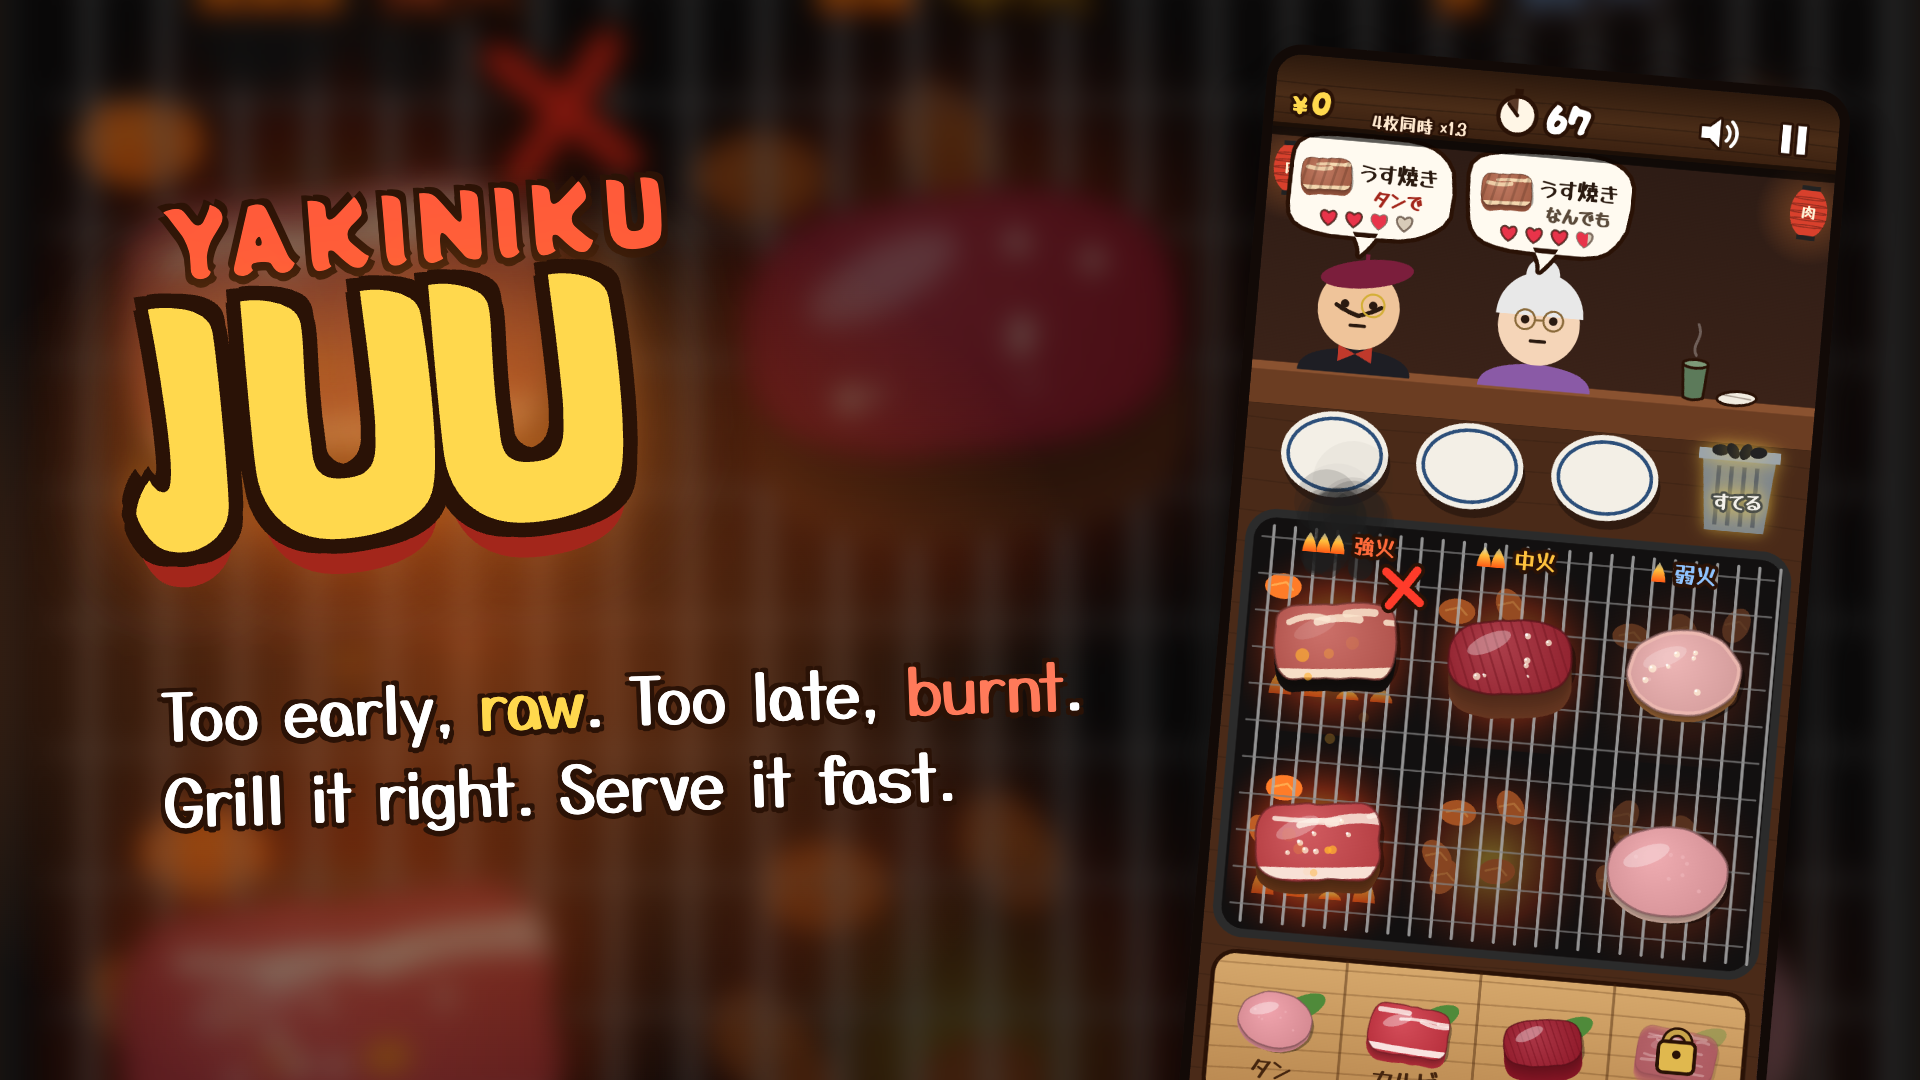
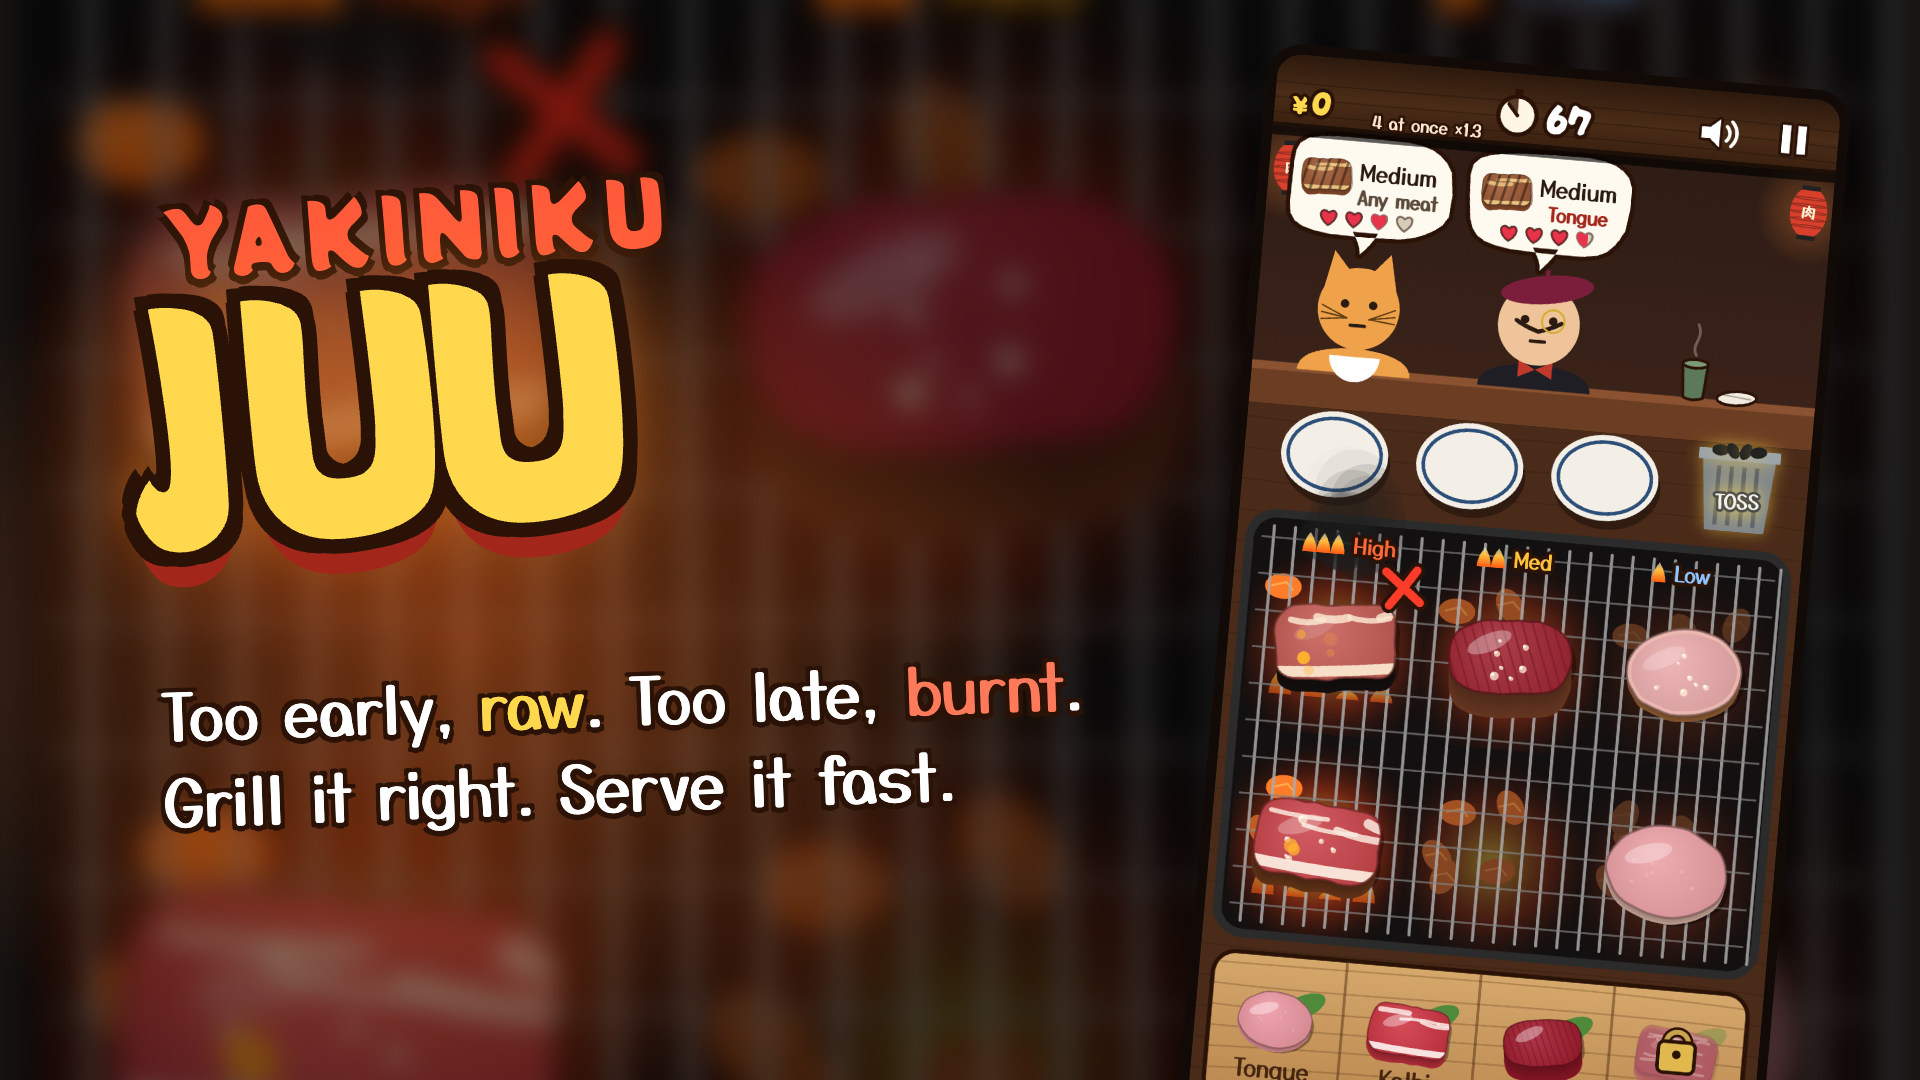
英語版とゲームサイトの準備をまとめる：CrazyGames とのつなぎ（遊ぶ・止める・区切りの広告・よろこび）・英語の表紙の絵・電波なし用に i18n.js と about.html を足す

diff --git a/src/main.js b/src/main.js
@@ -194,20 +194,23 @@
     ['title', 'pause', 'result', 'stages', 'intro', 'levels', 'tools'].forEach((id) => { $(id).hidden = true; });
     YS.unlock();
     if (window.YP) YP.start(g);
+    if (window.YQ) YQ.start();
     if (window.YC) YC.hit(stage ? 'start-s' + stage : 'start-honban');
   }
   function pause(on) {
     if (!g || mode !== 'play' || g.state === 'over') return;
     held = null; ptr = null;
     last = null; // もどったときに、離れていた時間をまとめて足さない
-    if (on) { g.paused = true; resumeT = 0; $('pause').hidden = false; YS.silence(); return; }
+    if (on) { g.paused = true; resumeT = 0; $('pause').hidden = false; YS.silence(); if (window.YQ) YQ.stop(); return; }
     if (!g.paused) return;
+    if (window.YQ) YQ.start();
     $('pause').hidden = true;
     // すぐには動かさない：3・2・1 のあとで再開（遊ぶ前の「ready」なら待たない）
     if (g.state === 'ready') g.paused = false; else resumeT = 1.5;
   }
   function toTitle() {
     if (g && mode === 'play' && window.YP) YP.quit(g, 'title');
+    if (window.YQ) YQ.stop();
     mode = 'title'; g = null;
     ['pause', 'result', 'stages', 'intro', 'levels', 'tools'].forEach((id) => { $(id).hidden = true; });
     $('title').hidden = false;
@@ -300,13 +303,15 @@
     const sb = $('startBtn');
     sb.disabled = true; sb.textContent = jaen('準備中…', '...');
     const ready = document.fonts && document.fonts.load ? document.fonts.load('20px "Potta One"', '焼肉0123') : Promise.resolve();
-    Promise.race([ready.catch(() => {}), new Promise((r) => setTimeout(r, 2500))]).then(() => { sb.disabled = false; sb.textContent = jaen('焼く', 'GRILL'); });
+    Promise.race([ready.catch(() => {}), new Promise((r) => setTimeout(r, 2500))]).then(() => { sb.disabled = false; sb.textContent = jaen('焼く', 'GRILL'); if (window.YQ) YQ.loaded(); });
   })();
   $('startBtn').onclick = () => { if (fromLv() == null && !Object.keys(starsMap()).length) showLevels(); else begin(nextStage()); };
   $('levelsClose').onclick = () => { $('levels').hidden = true; toTitle(); };
   $('lvBtn').onclick = showLevels;
-  $('againBtn').onclick = () => { const a = $('againBtn').dataset.next; if (a) begin(Number(a)); else newRun(stage); };
-  $('rRetry').onclick = () => newRun(stage);
+  // ゲームサイト版：結果からもう一度遊ぶときに、区切りの広告をはさむ（出すかどうかはサイトが決める）
+  const afterAd = (fn) => (window.YQ ? YQ.breakAd(fn) : fn());
+  $('againBtn').onclick = () => afterAd(() => { const a = $('againBtn').dataset.next; if (a) begin(Number(a)); else newRun(stage); });
+  $('rRetry').onclick = () => afterAd(() => newRun(stage));
   $('resumeBtn').onclick = () => pause(false);
   $('retryBtn').onclick = () => newRun(stage);
   $('toTitleBtn').onclick = toTitle;
@@ -316,6 +321,7 @@
 
   function showResult() {
     mode = 'result';
+    if (window.YQ) YQ.stop();
     YS.silence();
     store.set('yaki.plays', store.get('yaki.plays', 0) + 1);
     $('rScore').textContent = g.stage ? jaen('うまく焼けた ' + g.stats.ok + '枚', g.stats.ok + ' done right') : g.score;
@@ -367,7 +373,7 @@
     const n = YG.starsOf(g);
     const sm = starsMap();
     const before = sm[k] || 0;
-    if (n > before) { sm[k] = n; store.set('yaki.stars', sm); }
+    if (n > before) { sm[k] = n; store.set('yaki.stars', sm); if (window.YQ) YQ.happy(); }
     const sb = store.get('yaki.stageBestN', {}) || {};
     const bestBefore = sb[k] || 0;
     const got = g.stats.ok;

diff --git a/sw.js b/sw.js
@@ -1,9 +1,9 @@
 // 電波がなくても遊べるように、一度開いたゲームの中身をとっておく
 // いつもは新しいものを取りに行き（直したらすぐ届く）、つながらないときだけとっておいたものを出す
 const CACHE = 'ju-v1';
-const FILES = ['./', 'index.html', 'manifest.json', 'icon-192.png', 'icon-512.png', 'icon-180.png',
+const FILES = ['./', 'index.html', 'about.html', 'manifest.json', 'icon-192.png', 'icon-512.png', 'icon-180.png',
   'fonts/PottaOne.woff2', 'fonts/YuseiMagic.woff2',
-  'src/i18n.js?v=dev', 'src/sim.js?v=dev', 'src/lines.js?v=dev', 'src/draw.js?v=dev', 'src/sound.js?v=dev', 'src/playtest.js?v=dev', 'src/main.js?v=dev', 'src/count.js?v=dev'];
+  'src/i18n.js?v=dev', 'src/i18n.js?v=dev', 'src/sim.js?v=dev', 'src/lines.js?v=dev', 'src/draw.js?v=dev', 'src/sound.js?v=dev', 'src/playtest.js?v=dev', 'src/main.js?v=dev', 'src/count.js?v=dev'];
 self.addEventListener('install', (e) => { e.waitUntil(caches.open(CACHE).then((c) => c.addAll(FILES)).then(() => self.skipWaiting())); });
 self.addEventListener('activate', (e) => {
   e.waitUntil(caches.keys().then((ks) => Promise.all(ks.filter((k) => k !== CACHE).map((k) => caches.delete(k)))).then(() => self.clients.claim()));

diff --git a/tools/build-portal.py b/tools/build-portal.py
@@ -37,9 +37,9 @@ def build(name, crazy):
     for js in DROP_JS:
         drop(r'<script src="src/' + re.escape(js) + r'[^"]*"></script>\s*')
     if crazy:
-        if 'id="rShare">' not in s:
+        if 'id="rShare"' not in s:
             raise SystemExit('自慢するボタンが見つからない')
-        s = s.replace('id="rShare">', 'id="rShare" hidden>')  # 消すと main.js が困るので、隠すだけ
+        s = s.replace('id="rShare"', 'id="rShare" hidden')  # 消すと main.js が困るので、隠すだけ
         drop(r'<a class="tiny about"[^>]*>[^<]*</a>\s*')
         first = s.index('<script src="src/')
         s = s[:first] + SDK + '\n<script src="src/portal.js?v=dev"></script>\n' + s[first:]

diff --git a/README.md b/README.md
@@ -216,3 +216,11 @@ npm run playtest   # この Mac でゲームを動かし、期間限定のURLと
 - 字は2つだけ：ふだんは Yusei Magic、叫ぶ字・数字は Potta One。どちらも `fonts/` に、使う字だけ入れてある（OFL）。文言を変えて新しい漢字を使ったら `python tools/fonts.py` で作り直す（中に手順あり）。
 - 説明は店長が話す。絵文字・カッコの補足・％の数字は使わない。
 - アイコンは `tools/icon.html` が元。`node tools/icon.js` で `icon-*.png` を作り直す。
+
+## 公開・ことば・ゲームサイト
+- 公開版：https://kensho-goto.github.io/yakiniku-girigiri/ （main に入れると `.github/workflows/pages.yml` が更新する。ページが読むファイルが欠けていたら止まる）
+- ことば：日本語の端末は日本語、ほかは英語（`src/i18n.js`。`?lang=ja|en`、タイトルの English / 日本語 で切りかえ）
+- 遊んだ数：GoatCounter（`src/count.js`。公開版だけ・クッキーなし）。説明は `about.html`
+- 電波なし：`sw.js`（いつもは新しいものを取りに行き、つながらないときだけとっておいたものを出す）
+- 貼ったときの絵：`node tools/ogp.js` で `ogp.png` を作り直す
+- ゲームサイト：`python3 tools/build-portal.py` → `dist/ju-web.zip`（itch.io・ふりーむ!）・`dist/ju-crazygames.zip`。載せる文と絵は `docs/store.md`・`docs/store/`
